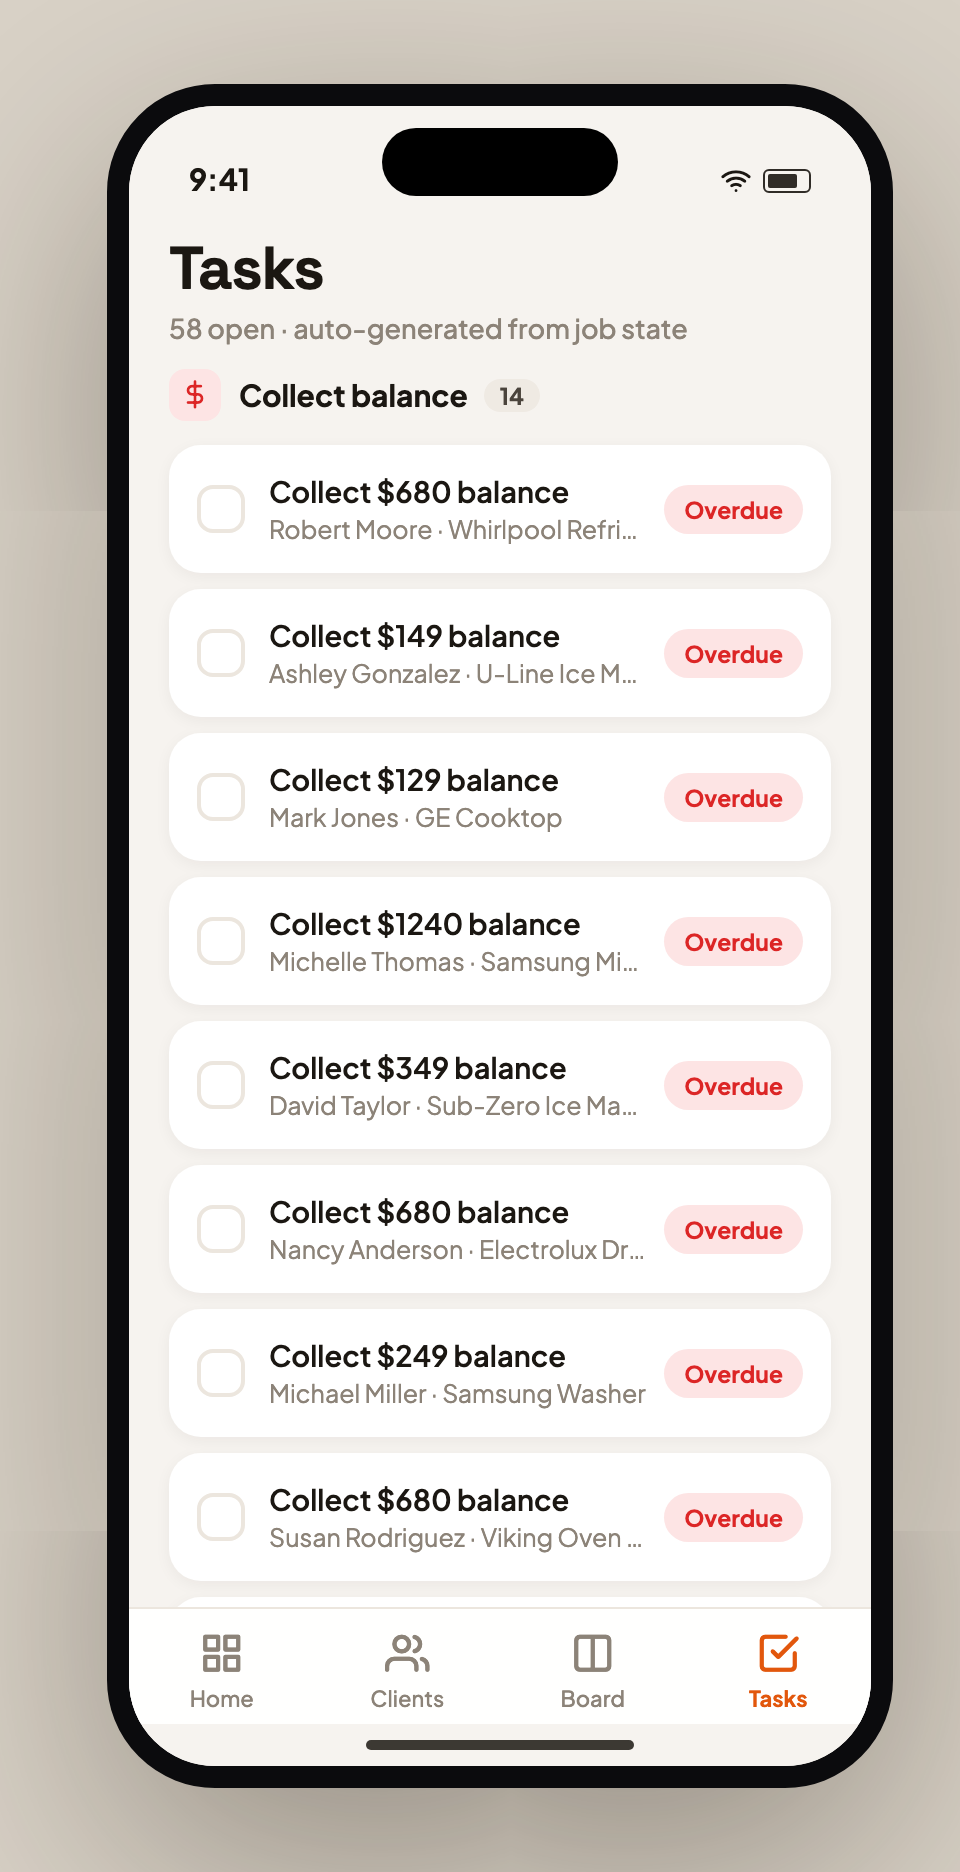
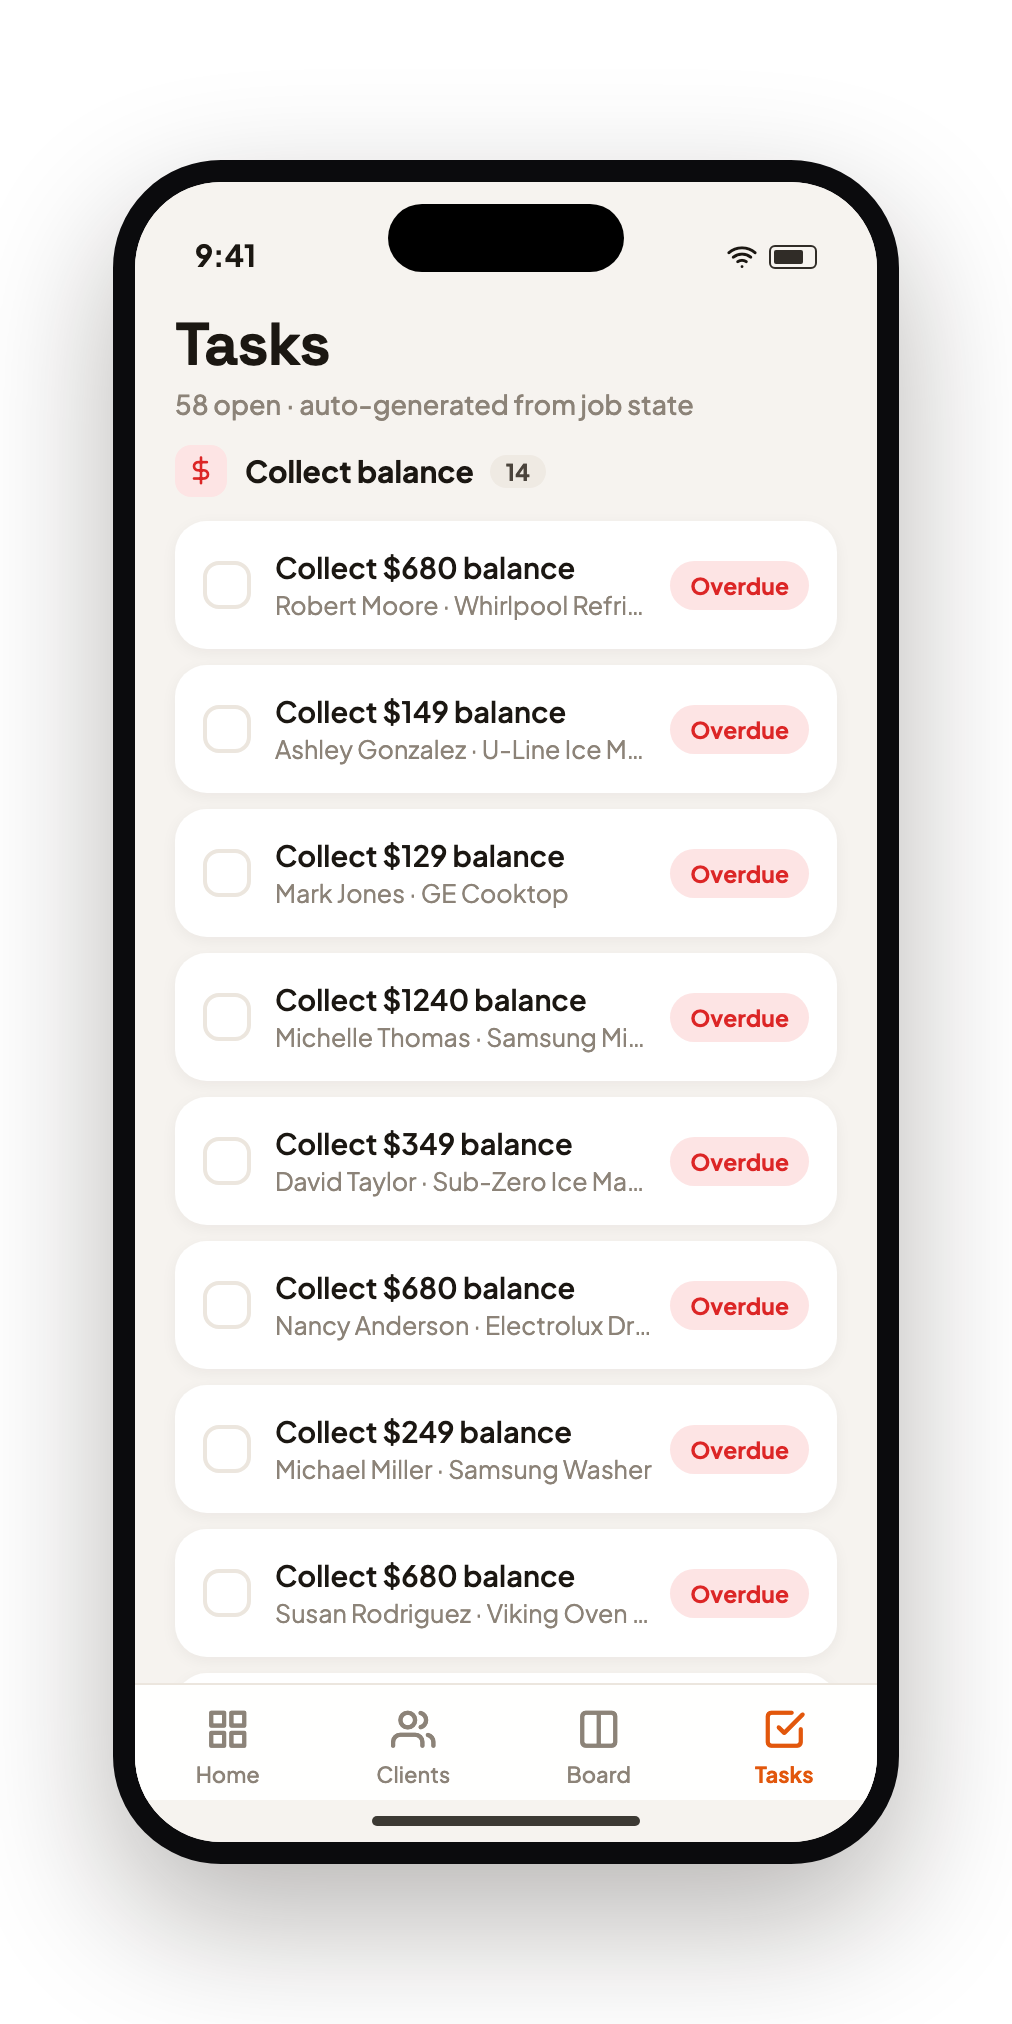
Cleaner screenshots: transparent-background floating phones + App-Store-style hero on warm gradient (drop the beige backdrop frame)

diff --git a/client-hub/App.tsx b/client-hub/App.tsx
@@ -110,7 +110,7 @@ export default function App() {
 }
 
 const styles = StyleSheet.create({
-  backdrop: { flex: 1, alignItems: 'center', justifyContent: 'center', backgroundColor: '#D9D2C7', padding: 24 },
+  backdrop: { flex: 1, alignItems: 'center', justifyContent: 'center', backgroundColor: 'transparent', padding: 56 },
   phone: {
     width: 393,
     height: 852,
@@ -119,7 +119,7 @@ const styles = StyleSheet.create({
     overflow: 'hidden',
     borderWidth: 11,
     borderColor: '#0B0B0D',
-    ...(isWeb ? ({ boxShadow: '0 40px 120px rgba(30,20,10,0.35)' } as any) : {}),
+    ...(isWeb ? ({ boxShadow: '0 28px 70px rgba(20,14,8,0.30)' } as any) : {}),
   },
   island: {
     position: 'absolute',
